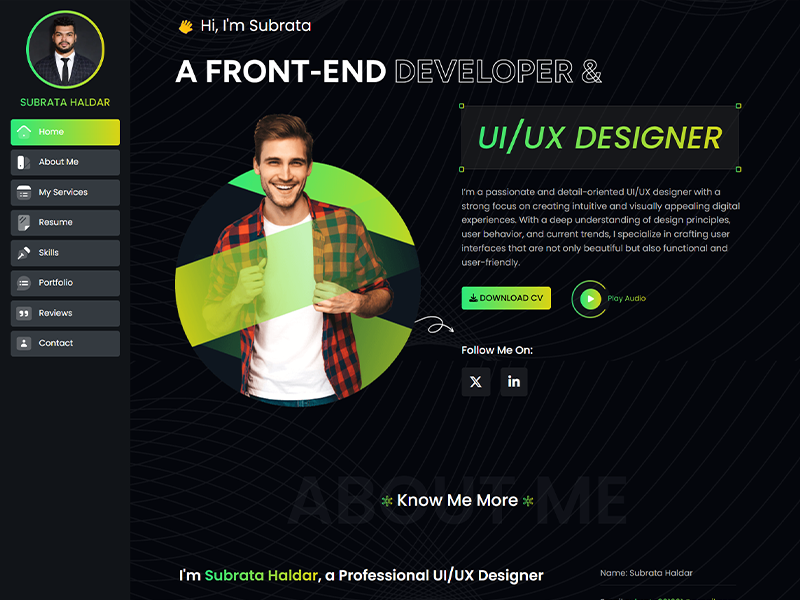
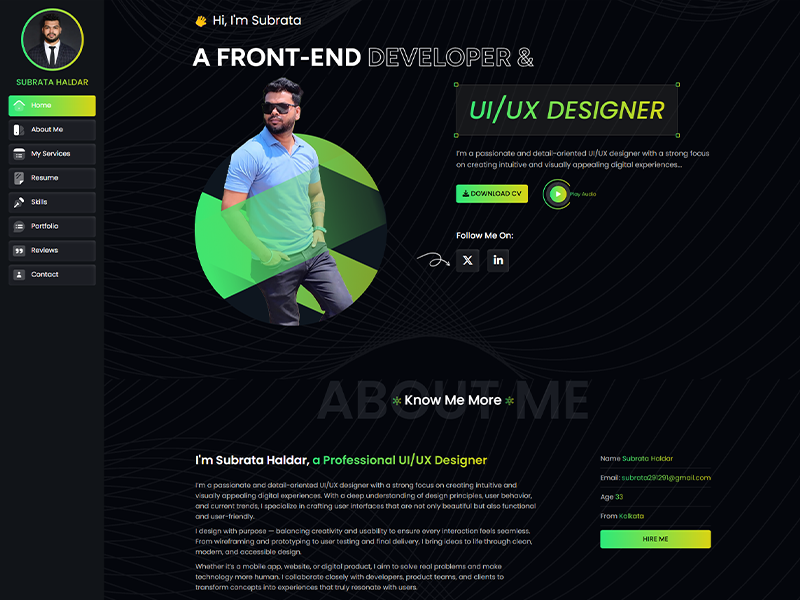
Added Projects

diff --git a/src/data/portfolioData.js b/src/data/portfolioData.js
@@ -24,10 +24,20 @@ import groceryLg from '../assets/images/grocery-lg.png';
 import grocery from '../assets/images/grocery.png';
 import regfoodLg from '../assets/images/regfood-lg.png';
 import regfood from '../assets/images/regfood.png';
-import portfolioLg from '../assets/images/portfolio-lg.png';
+import portfolioLg from '../assets/images/portfolioLarge.png';
 import portfolio from '../assets/images/portfolio.png';
 import gictLg from '../assets/images/gict-lg.png';
 import gict from '../assets/images/gict.png';
+import vincent from '../assets/images/vincent.jpg';
+import vincentLg from '../assets/images/vincent.png';
+import photography from '../assets/images/photography.jpg';
+import photographyLg from '../assets/images/photography.png';
+import saluja from '../assets/images/saluja.jpg';
+import salujaLg from '../assets/images/saluja.png';
+import poco from '../assets/images/poco.jpg';
+import pocoLg from '../assets/images/poco.png';
+import music from '../assets/images/music.jpg';
+import musicLg from '../assets/images/music.png';
 
 const portfolioData = [
   {
@@ -188,7 +198,47 @@ const portfolioData = [
     title: "informative",
     image: portfolio,
     preview: portfolioLg,
-    liveLink: "https://subrata291291.github.io/portfolio-html/",
+    liveLink: "https://subratahaldar.netlify.app/",
+  },
+  {
+    id: 21,
+    category: "e-commerce",
+    title: "ecommerce",
+    image: vincent,
+    preview: vincentLg,
+    liveLink: "https://vincentarenabooking.com/",
+  },
+  {
+    id: 22,
+    category: "e-commerce",
+    title: "ecommerce",
+    image: photography,
+    preview: photographyLg,
+    liveLink: "https://react-photography.netlify.app/",
+  },
+  {
+    id: 23,
+    category: "e-commerce",
+    title: "ecommerce",
+    image: saluja,
+    preview: salujaLg,
+    liveLink: "https://react-automobile.netlify.app/",
+  },
+  {
+    id: 24,
+    category: "restaurent",
+    title: "ecommerce",
+    image: poco,
+    preview: pocoLg,
+    liveLink: "https://react-poco.netlify.app/",
+  },
+  {
+    id: 25,
+    category: "blog",
+    title: "audio",
+    image: music,
+    preview: musicLg,
+    liveLink: "https://musicsbox.netlify.app/",
   },
 ];
 
